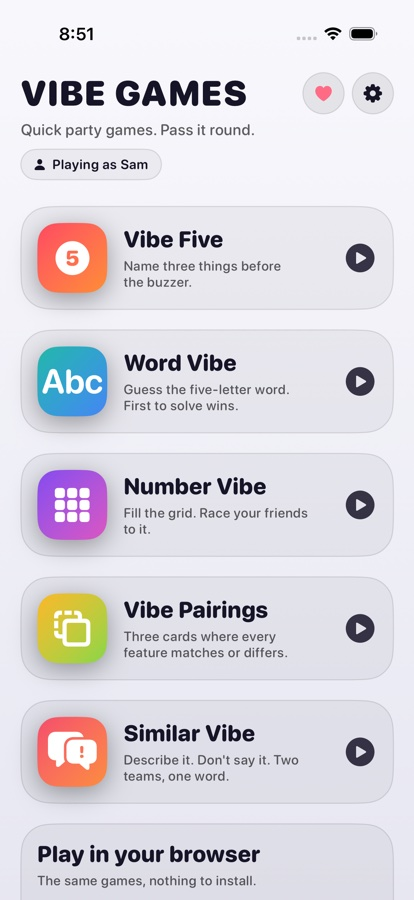
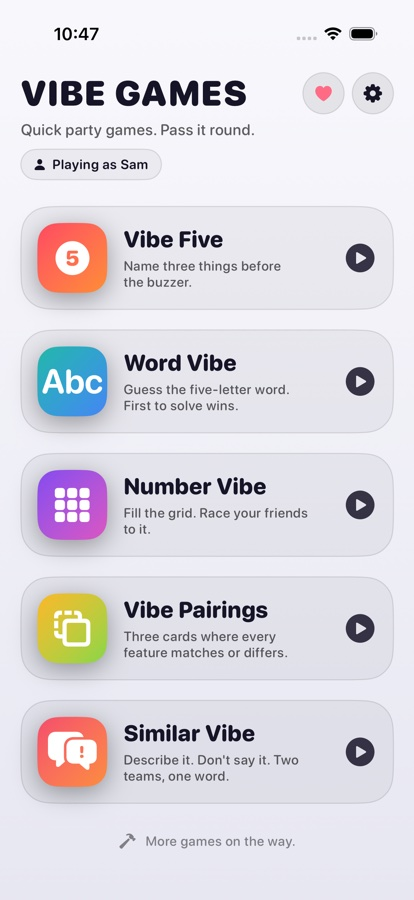
Put the browser QR where it belongs, and take the card off the app hub
The card belongs to the marketing page, next to the two store codes, not in the
app's hub — the app was the only place it could not be used for what a QR code is
for.

**The landing page** gains a third store card: "In your browser", the QR code for
play.vibegames.party, and a "Play now" pill where the other two say "Coming
soon". The whole card is a link. `Tools/make_qr.mjs` generates it alongside the
two store codes and now says which targets are real and which are placeholders;
the code decodes to https://play.vibegames.party (read back with Vision, not
guessed).

**The app's hub** goes back to the five games and "More games on the way", and the
`browser-qr` asset is gone with it.

Both hub screenshots and the App Store hub pair were reshot, because the phone
picture on the landing page showed a card the app no longer has. `?v=` goes to 7.

Checked: the hub UI tests (including the one that says the hub offers no other way
to pay) and the unit tests pass; the landing page has three cards at desktop and
phone widths with no horizontal overflow, and the live page serves the new code
and the reshot screenshots.

Changed region(s): [[0.087, 0.9333, 0.6377, 0.9956], [0.1159, 0.0311, 0.2319, 0.0622], [0.6667, 0.9333, 0.6957, 0.9644]]

diff --git a/Sources/Features/Home/HomeView.swift b/Sources/Features/Home/HomeView.swift
@@ -21,8 +21,6 @@ struct HomeView: View {
                     GameCard(entry: entry)
                 }
 
-                playInBrowserCard
-
                 footer
             }
             .padding(.horizontal, 20)
@@ -113,84 +111,6 @@ struct HomeView: View {
         .buttonStyle(.plain)
         .padding(.top, 4)
         .accessibilityIdentifier("hub.playerName")
-    }
-
-    /// The browser version is live, so it is a place to play rather than a line
-    /// about something on its way. The whole card is the `Link`, because a card
-    /// that looked tappable next to a QR code should open the same thing the QR
-    /// code does. Same margins, radius, fill and type as the game cards around
-    /// it.
-    private var playInBrowserCard: some View {
-        Link(destination: Support.playURL) {
-            VStack(alignment: .leading, spacing: 14) {
-                VStack(alignment: .leading, spacing: 5) {
-                    Text("Play in your browser")
-                        .font(.system(size: 22, weight: .heavy, design: .rounded))
-                        .foregroundStyle(VibeTheme.primaryText)
-
-                    // No count in the copy: the number of games goes stale, and
-                    // the suite stopped saying "five" for that reason.
-                    Text("The same games, nothing to install.")
-                        .font(.system(size: 13, weight: .medium, design: .rounded))
-                        .foregroundStyle(VibeTheme.secondaryText)
-                        .fixedSize(horizontal: false, vertical: true)
-                }
-
-                HStack(spacing: 14) {
-                    qrPlate
-
-                    VStack(alignment: .leading, spacing: 4) {
-                        Text("play.vibegames.party")
-                            .font(.system(size: 15, weight: .bold, design: .rounded))
-                            .foregroundStyle(VibeTheme.primaryText)
-
-                        Text("Scan with another device, or tap to open.")
-                            .font(.system(size: 12, weight: .medium, design: .rounded))
-                            .foregroundStyle(VibeTheme.tertiaryText)
-                            .fixedSize(horizontal: false, vertical: true)
-                    }
-
-                    Spacer(minLength: 0)
-
-                    Image(systemName: "arrow.up.right")
-                        .font(.system(size: 15, weight: .bold))
-                        .foregroundStyle(VibeTheme.tertiaryText)
-                }
-            }
-            .padding(16)
-            .background {
-                RoundedRectangle(cornerRadius: 28, style: .continuous)
-                    .fill(VibeTheme.surface)
-                    .overlay {
-                        RoundedRectangle(cornerRadius: 28, style: .continuous)
-                            .stroke(VibeTheme.hairline, lineWidth: 1)
-                    }
-            }
-            .contentShape(RoundedRectangle(cornerRadius: 28, style: .continuous))
-        }
-        .buttonStyle(PressableCardStyle())
-        .accessibilityLabel("Play in your browser. The same games, nothing to install. play.vibegames.party")
-        .accessibilityHint("Opens play.vibegames.party")
-        .accessibilityIdentifier("hub.playInBrowser")
-    }
-
-    /// Black on white in both appearances, with its own quiet zone. A QR code on
-    /// the dark card would not scan, and this is the one place a bare white is
-    /// right: the code is fixed black-on-white rather than a themed colour.
-    private var qrPlate: some View {
-        Image("browser-qr")
-            .resizable()
-            .interpolation(.none)
-            .scaledToFit()
-            .frame(width: 120, height: 120)
-            .padding(10)
-            .background {
-                RoundedRectangle(cornerRadius: 18, style: .continuous)
-                    .fill(Color.white)
-            }
-            // The URL beside it is the readable version, so the picture says
-            // nothing VoiceOver needs to hear twice.
-            .accessibilityHidden(true)
     }
 
     private var footer: some View {

diff --git a/site/index.html b/site/index.html
@@ -152,6 +152,13 @@
       </p>
 
       <div class="store">
+        <a class="store__item store__item--live" href="https://play.vibegames.party/">
+          <img src="assets/qr/browser.svg" alt="QR code for play.vibegames.party" width="132" height="132" />
+          <div>
+            <strong>In your browser</strong>
+            <span class="pill pill--live">Play now</span>
+          </div>
+        </a>
         <div class="store__item">
           <img src="assets/qr/appstore.svg" alt="QR code for the App Store listing" width="132" height="132" />
           <div>
@@ -176,7 +183,7 @@
 
     <div class="hero__device">
       <div class="phone phone--float">
-        <picture><source srcset="assets/screens/hub-dark.jpg?v=6" media="(prefers-color-scheme: dark)" /><img src="assets/screens/hub-light.jpg?v=6" alt="The Vibe Games home screen, listing the games" width="414" height="900" loading="eager" fetchpriority="high" /></picture>
+        <picture><source srcset="assets/screens/hub-dark.jpg?v=7" media="(prefers-color-scheme: dark)" /><img src="assets/screens/hub-light.jpg?v=7" alt="The Vibe Games home screen, listing the games" width="414" height="900" loading="eager" fetchpriority="high" /></picture>
       </div>
     </div>
   </div>

diff --git a/site/styles.css b/site/styles.css
@@ -170,6 +170,23 @@ code {
   border-radius: 18px;
 }
 
+/* The one that works now, rather than on its way. A card in a row of cards is
+   a place to click, so it is an anchor and says so. */
+a.store__item {
+  color: inherit;
+  text-decoration: none;
+  transition: border-color 0.16s ease, transform 0.16s ease;
+}
+
+a.store__item:hover {
+  border-color: color-mix(in srgb, var(--accent, #4585f5) 45%, var(--hairline));
+  transform: translateY(-1px);
+}
+
+.store__item--live {
+  border-color: color-mix(in srgb, #4585f5 40%, var(--hairline));
+}
+
 .store__item img {
   width: 84px; height: 84px;
   border-radius: 10px;
@@ -178,6 +195,12 @@ code {
 }
 
 .store__item strong { display: block; font-size: 1rem; }
+
+.pill--live {
+  color: #1b1b1b;
+  border-color: transparent;
+  background: linear-gradient(135deg, #4585f5, #21b8a8);
+}
 
 .pill {
   display: inline-block;
